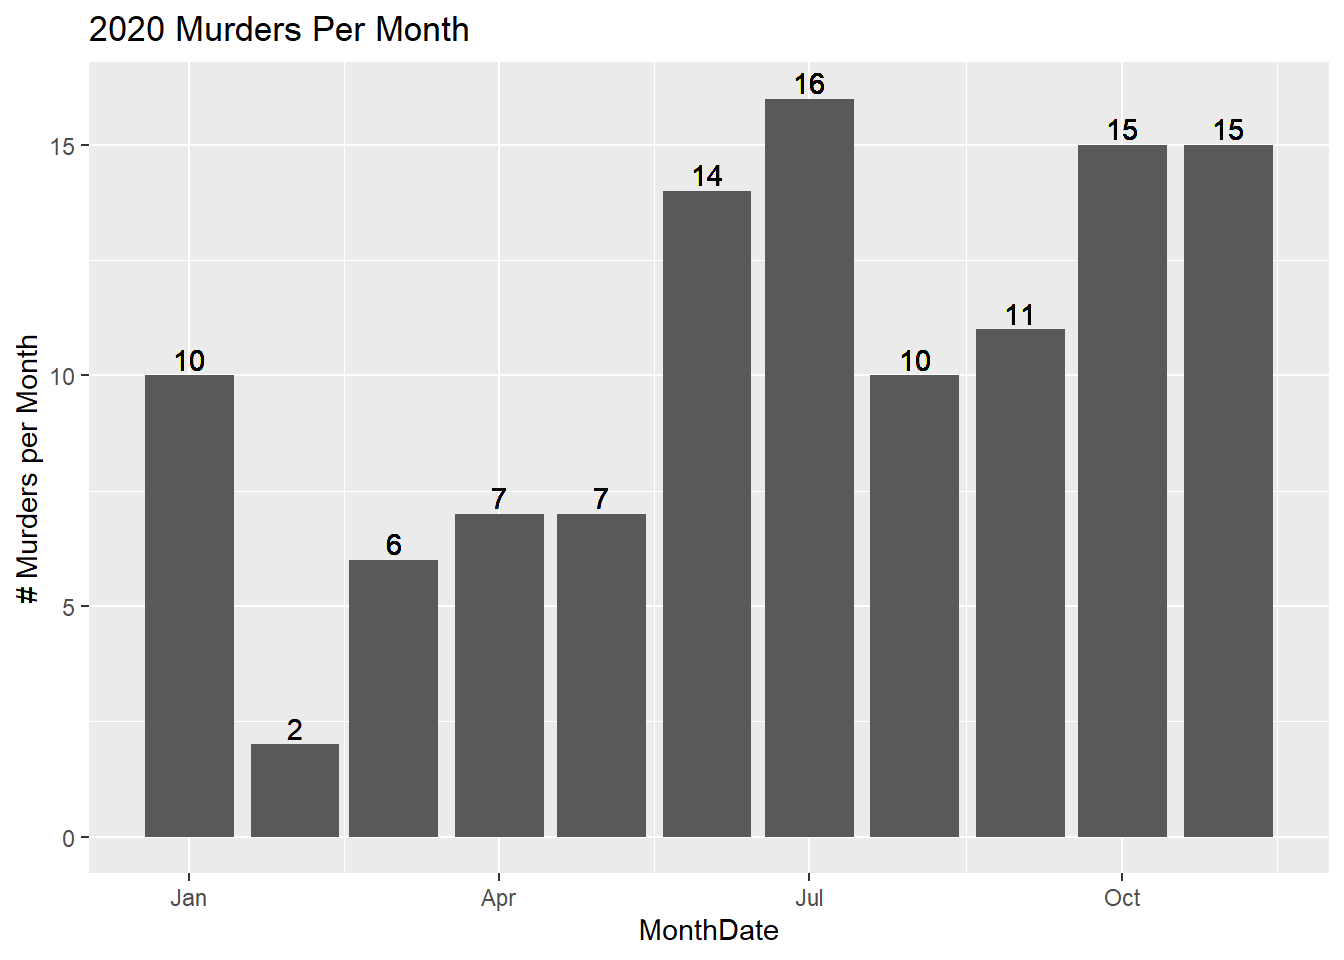
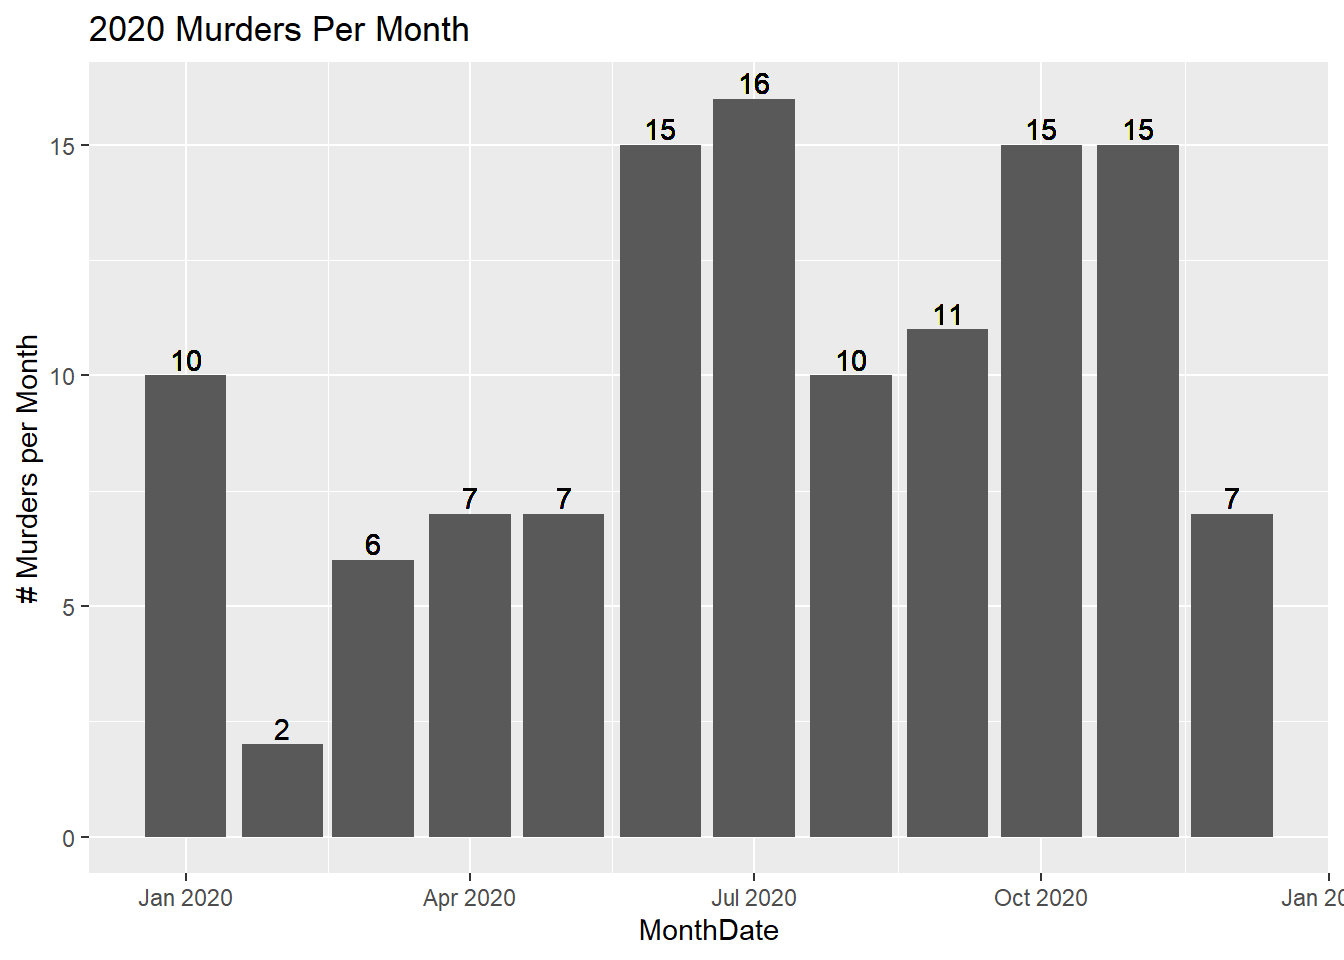
Full Update 12-13

diff --git a/content/post/2020-12-02-murder-rates-in-dallas/index.html b/content/post/2020-12-02-murder-rates-in-dallas/index.html
@@ -17,14 +17,13 @@ tags: []
 <p>Based on the following data set from Dallas Open Data:
 <a href="https://www.dallasopendata.com/Public-Safety/Public-Safety-Police-Incidents/yn72-daik" class="uri">https://www.dallasopendata.com/Public-Safety/Public-Safety-Police-Incidents/yn72-daik</a></p>
 <p>Data refresh date:</p>
-<pre><code>## [1] &quot;2020-12-11&quot;</code></pre>
+<pre><code>## [1] &quot;2020-12-13&quot;</code></pre>
 <p>Load data directly from DallasOpenData using Socrata API:</p>
-<pre class="r"><code>#PI &lt;- read.socrata(&quot;https://www.dallasopendata.com/resource/qv6i-rri7.csv&quot;)
+<pre class="r"><code>PI &lt;- read.socrata(&quot;https://www.dallasopendata.com/resource/qv6i-rri7.csv&quot;)
 #PI &lt;- readRDS(&quot;C:/Users/sconroy/Desktop/Debug/PoliceIncidents.RDS&quot;)
-#setDT(PI)</code></pre>
+setDT(PI)</code></pre>
 <p>First, let’s extract murder incidents by looking for “MURDER” or “HOMICIDE” in the officer’s incident description.</p>
-<pre class="r"><code>Murder &lt;- readRDS(&quot;C:/Users/sconroy/Desktop/Debug/Murder.RDS&quot;)
-#Murder &lt;- PI[grepl(&quot;MURDER&quot;,offincident) | grepl(&quot;HOMICIDE&quot;,offincident),]
+<pre class="r"><code>Murder &lt;- PI[grepl(&quot;MURDER&quot;,offincident) | grepl(&quot;HOMICIDE&quot;,offincident),]
 Murder[,Date := as.Date(substr(date1,1,10))]
 
 # Add Dates and Incidents / Day &amp; Month counts 
@@ -76,13 +75,13 @@ Murder[,SmoothNumPerMonth := predict(smooth.spline(NumPerMonth,df = 10))$y]</cod
 table(Murder$offincident)</code></pre>
 <pre><code>## 
 ##                 CAPITAL MURDER BY TERROR THREAT 
-##                                             120 
+##                                             125 
 ##              CAPITAL MURDER OF MULTIPLE PERSONS 
-##                                              33 
+##                                              37 
 ##               CAPITAL MURDER WHILE REMUNERATION 
 ##                                               1 
 ##                     CRIMINAL NEGLIGENT HOMICIDE 
-##                                             106 
+##                                             108 
 ## CRIMINAL NEGLIGENT HOMICIDE (DISTRACTED DRIVING 
 ##                                               2 
 ##                                        HOMICIDE 
@@ -90,7 +89,7 @@ table(Murder$offincident)</code></pre>
 ##                      HOMICIDE (POLICE SHOOTING) 
 ##                                               7 
 ##                                          MURDER 
-##                                             471</code></pre>
+##                                             470</code></pre>
 <pre class="r"><code>ggplot(Murder[!(offincident %in% c(&quot;CAPITAL MURDER WHILE REMUNERATION&quot;,
                                    &quot;CRIMINAL NEGLIGENT HOMICIDE (DISTRACTED DRIVING&quot;))]) +
     geom_bar(aes(x = MonthDate)) + facet_wrap(~ offincident)</code></pre>
@@ -121,7 +120,7 @@ ggplot(Murder,aes(x = Shift)) + geom_bar() +
 <p>Most murders occur between 11pm and 7am. No suprises there.</p>
 <p>Age distribution of victims per year:</p>
 <pre class="r"><code>ggplot(Murder,aes(x = compage)) + geom_histogram(bins = 10) + facet_wrap(~ servyr)</code></pre>
-<pre><code>## Warning: Removed 24 rows containing non-finite values (stat_bin).</code></pre>
+<pre><code>## Warning: Removed 23 rows containing non-finite values (stat_bin).</code></pre>
 <p><img src="index_files/figure-html/Per%20Victim%20Age%20Distribution-1.png" width="672" />
 Looks like the ages of the victimes are left-skewed towards younger victims, peaking in the 20’s.</p>
 <p>Sex distrbution of victims:</p>
